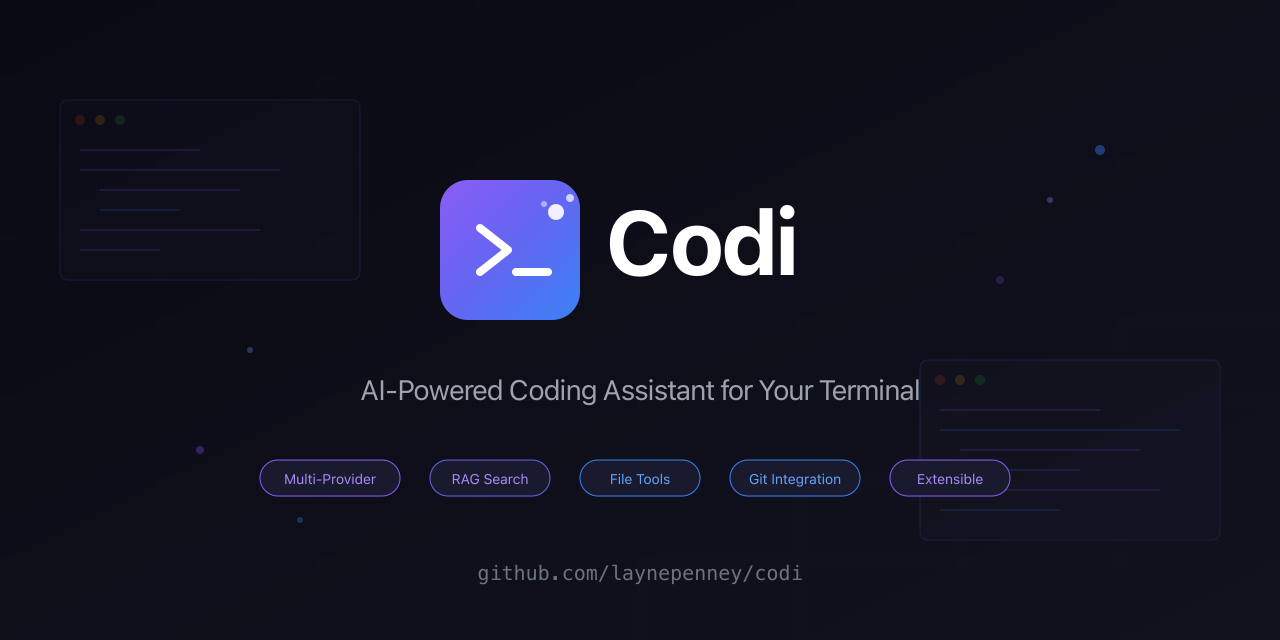
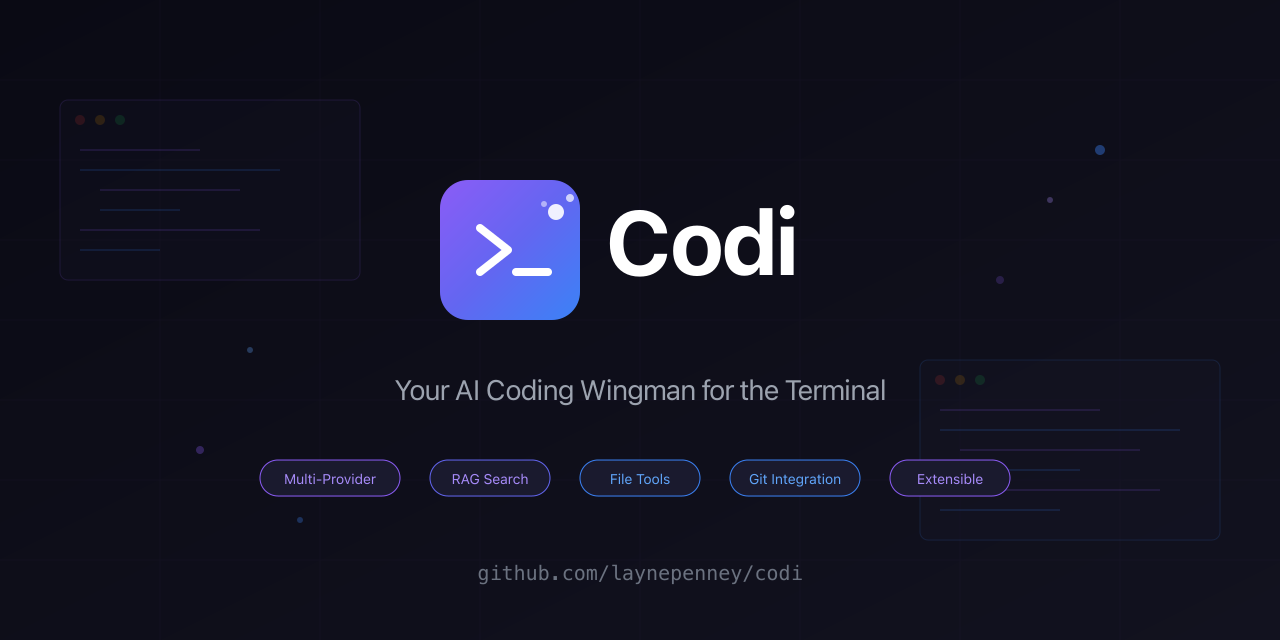
chore: update branding to 'AI coding wingman' consistently

Changed region(s): [[0.2812, 0.5938, 0.7188, 0.625]]

diff --git a/docs/index.html b/docs/index.html
@@ -3,7 +3,7 @@
 <head>
   <meta charset="UTF-8">
   <meta name="viewport" content="width=device-width, initial-scale=1.0">
-  <title>Codi - AI-Powered Coding Assistant</title>
+  <title>Codi - Your AI Coding Wingman</title>
   <meta name="description" content="Your AI coding wingman for the terminal. Multi-provider support for Claude, OpenAI, and Ollama.">
   <link rel="icon" type="image/svg+xml" href="../assets/icon.svg">
   <style>

diff --git a/marketing/social-posts.md b/marketing/social-posts.md
@@ -100,7 +100,7 @@ github.com/laynepenney/codi
 ### Launch Post
 
 ```
-I'm excited to share Codi - an open-source AI coding assistant for the terminal.
+I'm excited to share Codi - your open-source AI coding wingman for the terminal.
 
 As developers, we spend countless hours in the terminal. What if your AI assistant lived there too - with full access to read files, write code, run tests, and help you ship faster?
 
@@ -164,13 +164,13 @@ github.com/laynepenney/codi
 
 ### r/programming or r/coding
 
-**Title:** `Codi - Open-source AI coding assistant for the terminal (Claude/GPT/Ollama)`
+**Title:** `Codi - Your AI coding wingman for the terminal (Claude/GPT/Ollama)`
 
 **Body:**
 ```
 Hey everyone,
 
-I've been working on Codi, an open-source CLI tool that brings AI assistance directly into your terminal workflow.
+I've been working on Codi, your AI coding wingman - an open-source CLI tool that brings AI assistance directly into your terminal workflow.
 
 **What it does:**
 - Chat with AI that can actually read/write your files, run commands, and search your codebase
@@ -210,7 +210,7 @@ Would love feedback from the community. What features would make this more usefu
 
 ### r/LocalLLaMA
 
-**Title:** `Codi - Terminal AI assistant with Ollama support (free/local LLM coding)`
+**Title:** `Codi - AI coding wingman with Ollama support (free/local LLM coding)`
 
 **Body:**
 ```
@@ -252,13 +252,13 @@ What local models are you using for coding tasks? Always looking to test with mo
 
 ### Show HN Post
 
-**Title:** `Show HN: Codi – Open-source terminal AI assistant (Claude/GPT/Ollama)`
+**Title:** `Show HN: Codi – Your AI coding wingman for the terminal (Claude/GPT/Ollama)`
 
 **Body:**
 ```
 Hi HN,
 
-I built Codi because I wanted an AI coding assistant that:
+I built Codi because I wanted an AI coding wingman that:
 1. Lives in the terminal (where I already work)
 2. Isn't locked to one AI provider
 3. Can actually read and modify my codebase

diff --git a/CLAUDE.md b/CLAUDE.md
@@ -14,7 +14,7 @@ When changing this area:
 - update tests that assert on session serialization/deserialization
 
 
-**Codi** is an interactive AI coding assistant CLI tool that supports multiple AI providers (Claude, OpenAI, Ollama, RunPod). It enables developers to work with AI models through a conversational interface while giving the AI access to filesystem tools.
+**Codi** is your AI coding wingman for the terminal - a CLI tool that supports multiple AI providers (Claude, OpenAI, Ollama, RunPod). It enables developers to work with AI models through a conversational interface while giving the AI access to filesystem tools.
 
 ## Quick Reference
 

diff --git a/README.md b/README.md
@@ -1,5 +1,5 @@
 <p align="center">
-  <img src="assets/banner.svg" alt="Codi - AI-Powered Coding Assistant" width="600" />
+  <img src="assets/banner.svg" alt="Codi - Your AI Coding Wingman" width="600" />
 </p>
 
 <p align="center">
